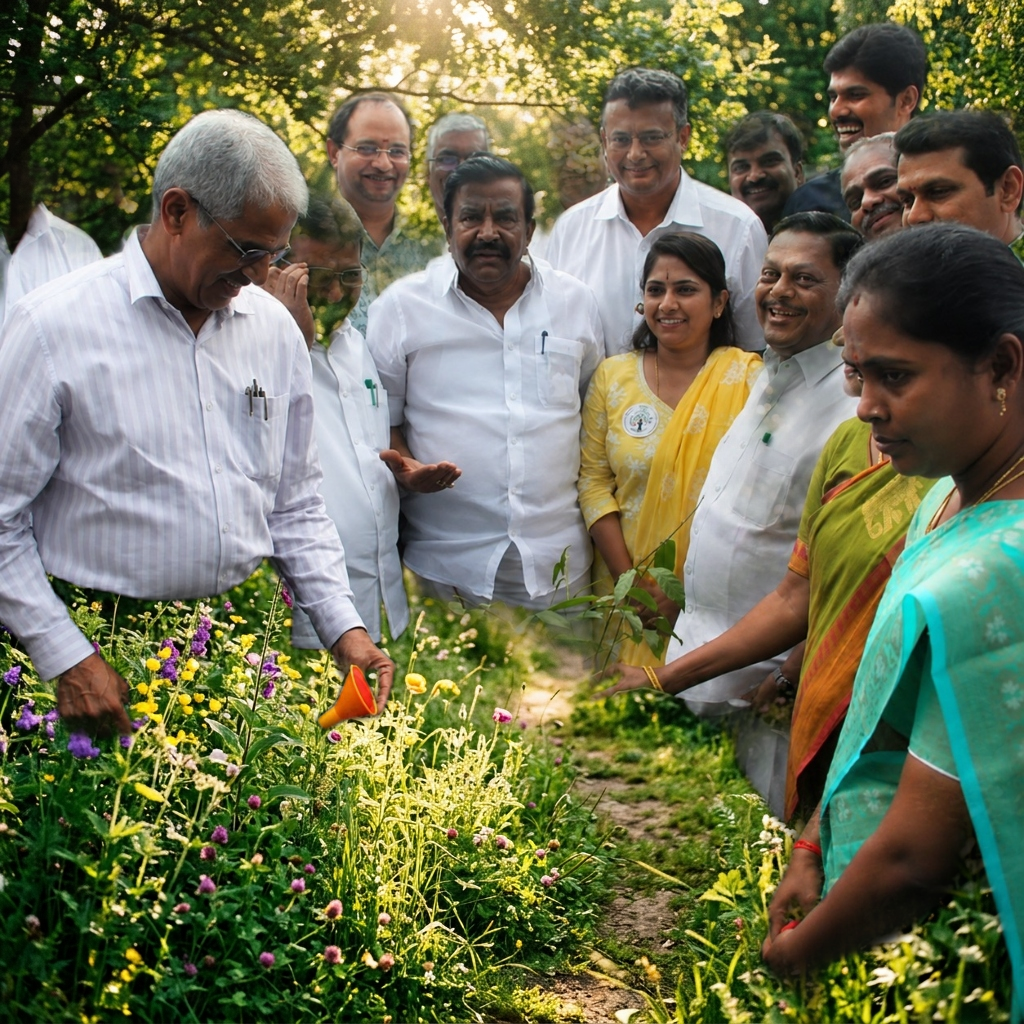
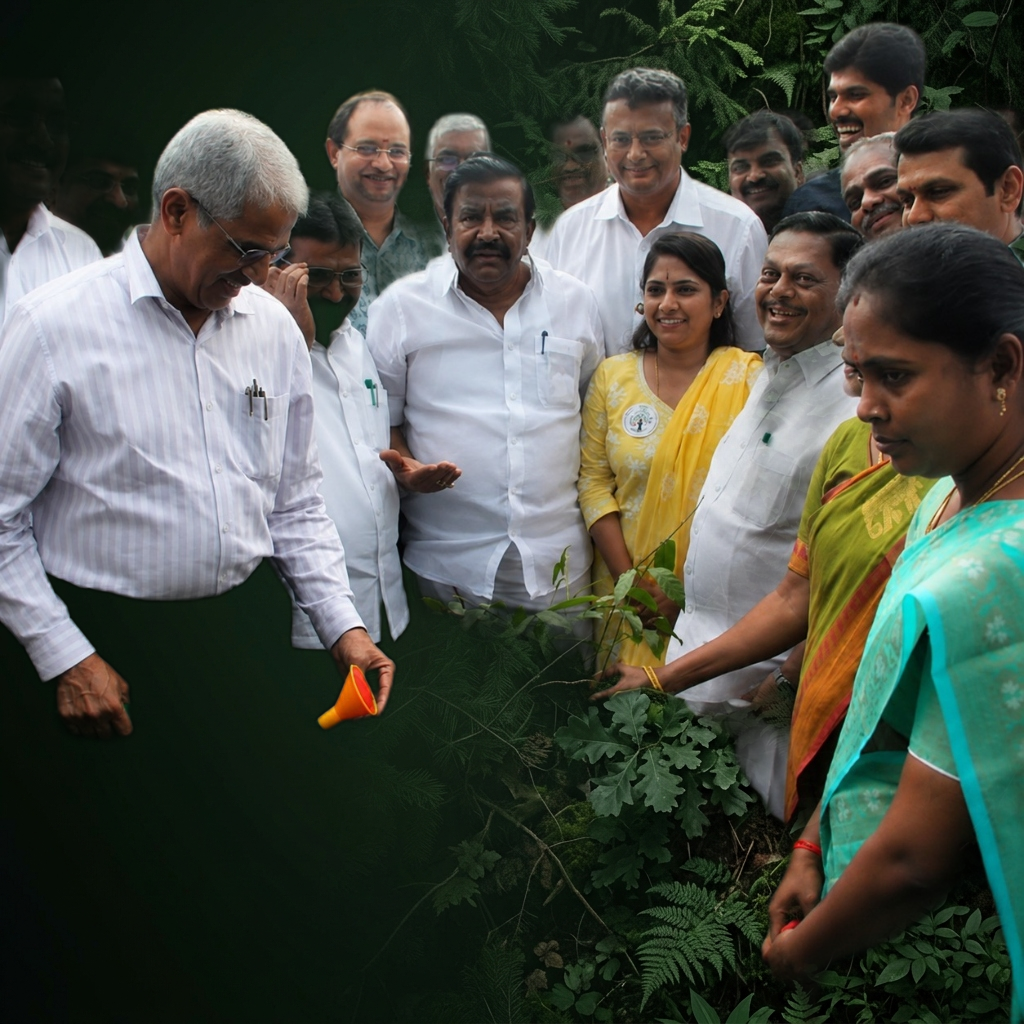
Implement exact mockup design with transparent header, left-aligned hero content, and bottom features list while maintaining original faces

diff --git a/src/pages/Home.jsx b/src/pages/Home.jsx
@@ -1,6 +1,6 @@
 import React, { useEffect, useState } from 'react';
 import { motion } from 'framer-motion';
-import { Leaf, ArrowRight, Heart, Users, Compass } from 'lucide-react';
+import { Leaf, ArrowRight, Heart, Users, Compass, Droplet } from 'lucide-react';
 import { Link } from 'react-router-dom';
 import Button from '../components/common/Button';
 import SectionTitle from '../components/common/SectionTitle';
@@ -45,92 +45,105 @@ const Home = () => {
   return (
     <div className="overflow-hidden font-sans">
       {/* 1. HERO SECTION (100vh Presentation Slide) */}
-      {/* 1. HERO SECTION (100vh Presentation Slide) */}
-      <section className="relative min-h-screen flex items-center justify-center bg-slate-950 text-white overflow-hidden pt-20 pb-16 px-4">
+      <section className="relative min-h-screen flex items-center bg-[#04140a] text-white overflow-hidden pt-32 pb-20 px-4 md:px-8">
         {/* Environmental Canopy Background Image with Dark Soft Gradients */}
         <div className="absolute inset-0 z-0">
           <img 
             src={homeHeroBg} 
             alt="People planting a sapling" 
-            className="w-full h-full object-cover opacity-90 animate-fade-in"
+            className="w-full h-full object-cover opacity-95 object-center lg:object-right animate-fade-in"
           />
-          {/* Softer gradient in the center to keep people's faces extremely bright and clear */}
-          <div className="absolute inset-0 bg-gradient-to-b from-slate-950/70 via-slate-950/25 to-slate-950/90"></div>
-          
-          {/* Ambient Organic Light blobs */}
-          <div className="absolute top-1/4 left-1/4 w-[500px] h-[500px] bg-emerald-500/10 rounded-full blur-3xl pointer-events-none -translate-x-1/2 -translate-y-1/2"></div>
-          <div className="absolute bottom-1/4 right-1/4 w-[600px] h-[600px] bg-emerald-500/5 rounded-full blur-3xl pointer-events-none translate-x-1/2 translate-y-1/2"></div>
+          {/* Dark-green vignette overlay: very dark on the left/bottom, fading into light/transparent on the right */}
+          <div className="absolute inset-0 bg-gradient-to-b from-[#04140a]/90 via-[#04140a]/50 to-[#04140a]/95 lg:bg-gradient-to-r lg:from-[#04140a]/95 lg:via-[#04140a]/65 lg:to-transparent z-10"></div>
         </div>
 
         {/* Hero Content */}
-        <div className="max-w-7xl mx-auto text-center relative z-10 space-y-8 w-full px-4">
+        <div className="max-w-7xl mx-auto relative z-20 space-y-8 w-full text-left flex flex-col items-start px-4 lg:px-0">
+          {/* Leaf Badge */}
           <motion.div
             initial={{ opacity: 0, scale: 0.95 }}
             animate={{ opacity: 1, scale: 1 }}
             transition={{ duration: 0.6 }}
-            className="inline-flex items-center gap-2 px-3 py-1 rounded-full bg-slate-950/40 border border-white/10 text-emerald-400 text-xs font-bold uppercase tracking-widest backdrop-blur-sm shadow-md"
+            className="inline-flex items-center gap-2 px-4 py-1.5 rounded-full bg-white/5 border border-white/10 text-white text-xs font-bold uppercase tracking-widest backdrop-blur-sm shadow-md"
           >
-            <Leaf size={16} className="fill-emerald-400/20 text-emerald-400" />
-            <span>Preserving Ecosystems Since 2021</span>
+            <Leaf size={14} className="fill-emerald-500 text-emerald-500" />
+            <span>Preserving <span className="text-emerald-400">Nature</span>, Enriching <span className="text-emerald-400">Lives</span></span>
           </motion.div>
 
+          {/* Title */}
           <motion.h1
             initial={{ opacity: 0, y: 40 }}
             animate={{ opacity: 1, y: 0 }}
             transition={{ duration: 0.8, delay: 0.15 }}
-            className="font-display font-black text-3xl sm:text-5xl md:text-6xl leading-none tracking-tight uppercase drop-shadow-[0_4px_12px_rgba(0,0,0,0.85)]"
+            className="font-display font-black text-4xl sm:text-5xl md:text-6xl lg:text-[68px] leading-tight tracking-tight uppercase text-white max-w-3xl drop-shadow-md"
           >
-            Protecting Nature, <br />
-            <span className="text-transparent bg-clip-text bg-gradient-to-r from-secondary via-emerald-400 to-accent">
-              Restoring Ecosystems
-            </span>
+            Together, We Can <br />
+            Build a <span className="text-emerald-400">Greener <br className="hidden md:inline" /> Tomorrow</span>
           </motion.h1>
 
+          {/* Paragraph */}
           <motion.p
             initial={{ opacity: 0, y: 30 }}
             animate={{ opacity: 1, y: 0 }}
             transition={{ duration: 0.8, delay: 0.3 }}
-            className="text-slate-100 text-sm sm:text-lg max-w-2xl mx-auto font-medium leading-relaxed drop-shadow-[0_2px_8px_rgba(0,0,0,0.85)]"
+            className="text-slate-300 text-sm sm:text-lg max-w-xl font-medium leading-relaxed drop-shadow-sm"
           >
-            We empower local communities to combat climate change, plant biodiverse forests, and restore clean waterways. Join us in cultivating a sustainable planet.
+            We empower communities through environmental <span className="text-emerald-400 font-bold">conservation</span>, tree plantation, and <span className="text-emerald-400 font-bold">sustainable</span> development for a better tomorrow.
           </motion.p>
 
-          {/* Branding Badge inside Hero */}
-          <motion.div
-            initial={{ opacity: 0 }}
-            animate={{ opacity: 1 }}
-            transition={{ duration: 0.8, delay: 0.45 }}
-            className="flex items-center justify-center gap-4 bg-slate-950/40 border border-white/20 rounded-3xl p-4 max-w-sm mx-auto backdrop-blur-md shadow-2xl"
-          >
-            <div className="flex">
-              <img 
-                src={logoDhi} 
-                alt="DHI Green Foundation Logo" 
-                className="h-10 w-auto object-contain bg-white rounded-xl p-1 shadow-md"
-              />
-            </div>
-            <div className="text-left border-l border-white/15 pl-4">
-              <span className="block text-[9px] uppercase tracking-widest text-emerald-300 font-black font-display">Culture with Agriculture</span>
-              <span className="block text-xs font-display font-bold text-white uppercase mt-0.5">DHI Green Foundation</span>
-            </div>
-          </motion.div>
-
+          {/* Buttons */}
           <motion.div
             initial={{ opacity: 0, y: 30 }}
             animate={{ opacity: 1, y: 0 }}
             transition={{ duration: 0.8, delay: 0.5 }}
-            className="flex flex-wrap justify-center gap-5 pt-4"
+            className="flex flex-wrap gap-5 pt-2"
           >
-            <Link to="/donate">
-              <Button variant="accent" size="lg" className="gap-2 shadow-lg shadow-accent/20 hover:scale-105 transition-transform duration-300">
-                Donate Now <Heart size={18} className="fill-slate-900 text-slate-900" />
+            <Link to="/projects">
+              <Button variant="primary" size="lg" className="bg-[#22c55e] hover:bg-emerald-600 border-transparent text-white rounded-full font-bold px-8 py-3.5 flex items-center gap-2 transition-transform hover:scale-105 duration-300 shadow-lg shadow-emerald-950/20">
+                <Leaf size={18} /> Explore Our Projects
               </Button>
             </Link>
             <Link to="/volunteer">
-              <Button variant="outline" size="lg" className="border-white/25 bg-white/5 text-white hover:bg-white/10 hover:border-white/40 hover:scale-105 transition-transform duration-300">
-                Join as Volunteer
+              <Button variant="outline" size="lg" className="border-white/20 bg-white/5 hover:bg-white/10 text-white rounded-full font-bold px-8 py-3.5 flex items-center gap-2 transition-transform hover:scale-105 duration-300">
+                <Users size={18} /> Join as Volunteer
               </Button>
             </Link>
+          </motion.div>
+
+          {/* Features list row */}
+          <motion.div
+            initial={{ opacity: 0, y: 20 }}
+            animate={{ opacity: 1, y: 0 }}
+            transition={{ duration: 0.8, delay: 0.6 }}
+            className="grid grid-cols-1 sm:grid-cols-3 gap-8 pt-8 mt-4 border-t border-white/15 w-full max-w-4xl"
+          >
+            <div className="flex items-center gap-4">
+              <div className="w-12 h-12 rounded-full bg-emerald-500/10 border border-emerald-500/20 flex items-center justify-center text-emerald-400 shrink-0">
+                <Leaf size={22} className="fill-emerald-500/10" />
+              </div>
+              <div>
+                <h4 className="font-extrabold text-white text-sm font-display tracking-wide">Plant Trees</h4>
+                <p className="text-slate-400 text-xs mt-0.5 leading-relaxed">Create a greener planet</p>
+              </div>
+            </div>
+            <div className="flex items-center gap-4">
+              <div className="w-12 h-12 rounded-full bg-emerald-500/10 border border-emerald-500/20 flex items-center justify-center text-emerald-400 shrink-0">
+                <Droplet size={22} className="fill-emerald-500/10" />
+              </div>
+              <div>
+                <h4 className="font-extrabold text-white text-sm font-display tracking-wide">Save Water</h4>
+                <p className="text-slate-400 text-xs mt-0.5 leading-relaxed">Protect every drop</p>
+              </div>
+            </div>
+            <div className="flex items-center gap-4">
+              <div className="w-12 h-12 rounded-full bg-emerald-500/10 border border-emerald-500/20 flex items-center justify-center text-emerald-400 shrink-0">
+                <Users size={22} className="fill-emerald-500/10" />
+              </div>
+              <div>
+                <h4 className="font-extrabold text-white text-sm font-display tracking-wide">Empower Communities</h4>
+                <p className="text-slate-400 text-xs mt-0.5 leading-relaxed">Together for a better tomorrow</p>
+              </div>
+            </div>
           </motion.div>
         </div>
       </section>

diff --git a/src/components/layout/Navbar.jsx b/src/components/layout/Navbar.jsx
@@ -1,7 +1,7 @@
 import React, { useState, useEffect } from 'react';
 import { NavLink, Link, useLocation } from 'react-router-dom';
 import { motion, AnimatePresence } from 'framer-motion';
-import { Menu, X, Leaf } from 'lucide-react';
+import { Menu, X, Heart } from 'lucide-react';
 import Button from '../common/Button';
 import logoDhi from '../../assets/logo-dhi-official.png';
 
@@ -38,57 +38,72 @@ const Navbar = () => {
     { name: 'Contact', path: '/contact' }
   ];
 
-  const activeStyle = ({ isActive }) => 
-    `text-[15px] font-extrabold tracking-wide transition-colors font-display ${
-      isActive ? 'text-primary' : 'text-slate-800 hover:text-primary'
-    }`;
-
   const mobileActiveStyle = ({ isActive }) => 
     `block text-base font-bold py-2 font-display ${
-      isActive ? 'text-primary border-l-4 border-primary pl-3' : 'text-slate-700 hover:text-primary pl-4'
+      isActive ? 'text-emerald-400 border-l-4 border-emerald-400 pl-3' : 'text-white/80 hover:text-white pl-4'
     }`;
 
   return (
-    <header className="fixed top-0 left-0 w-full z-45 px-4 md:px-8 py-4 transition-all duration-300">
-      <div 
-        className={`max-w-7xl mx-auto rounded-2xl md:rounded-full px-6 py-3 flex items-center justify-between transition-all duration-300 ${
-          isScrolled 
-            ? 'bg-white/95 backdrop-blur-md shadow-lg border border-slate-100/80' 
-            : 'bg-white/90 backdrop-blur-lg shadow-md border border-white/20'
-        }`}
-      >
+    <header 
+      className={`fixed top-0 left-0 w-full z-50 transition-all duration-300 ${
+        isScrolled 
+          ? 'bg-[#04140a]/90 backdrop-blur-md border-b border-white/5 py-3 shadow-lg' 
+          : 'bg-transparent py-5'
+      }`}
+    >
+      <div className="max-w-7xl mx-auto px-6 md:px-8 flex items-center justify-between">
         {/* Branding Logo */}
         <Link to="/" className="flex items-center select-none group">
           <img 
             src={logoDhi} 
             alt="DHI Green Foundation Logo" 
-            className="h-14 md:h-[72px] w-auto object-contain rounded-xl bg-white border border-emerald-100/50 p-1 group-hover:scale-102 transition-transform shadow-sm"
+            className="h-12 md:h-14 w-auto object-contain rounded-xl bg-white p-1 group-hover:scale-102 transition-transform shadow-md"
           />
         </Link>
 
         {/* Desktop Navigation Link list */}
-        <nav className="hidden lg:flex items-center gap-6">
+        <nav className="hidden lg:flex items-center gap-8">
           {navLinks.map((link) => (
-            <NavLink key={link.name} to={link.path} className={activeStyle}>
-              {link.name}
+            <NavLink 
+              key={link.name} 
+              to={link.path} 
+              className={({ isActive }) => 
+                `relative text-[15px] font-bold tracking-wide transition-colors font-display py-1.5 ${
+                  isActive ? 'text-emerald-400' : 'text-white/80 hover:text-white'
+                }`
+              }
+            >
+              {({ isActive }) => (
+                <>
+                  {link.name}
+                  {isActive && (
+                    <motion.div 
+                      layoutId="activeIndicator"
+                      className="absolute bottom-0 left-0 right-0 h-0.5 bg-emerald-400 rounded-full"
+                    />
+                  )}
+                </>
+              )}
             </NavLink>
           ))}
         </nav>
 
-        {/* CTA Actions & Emblem */}
-        <div className="hidden lg:flex items-center gap-4">
-          <Link to="/volunteer">
-            <Button variant="ghost" size="sm" className="text-slate-700 hover:text-primary hover:bg-slate-100/50">Volunteer</Button>
+        {/* CTA Actions */}
+        <div className="hidden lg:flex items-center gap-6">
+          <Link to="/volunteer" className="text-[15px] font-bold text-white/80 hover:text-white transition-colors font-display">
+            Volunteer
           </Link>
           <Link to="/donate">
-            <Button variant="primary" size="sm">Donate Now</Button>
+            <Button variant="primary" size="sm" className="bg-[#22c55e] hover:bg-emerald-600 text-white border-transparent rounded-full px-5 py-2 flex items-center gap-1.5 font-bold shadow-md hover:scale-105 transition-transform">
+              <Heart size={15} className="fill-white text-white" /> Donate Now
+            </Button>
           </Link>
         </div>
 
         {/* Mobile Toggle Trigger */}
         <button 
           onClick={() => setIsOpen(!isOpen)}
-          className="lg:hidden text-slate-700 hover:text-primary p-2 focus:outline-none"
+          className="lg:hidden text-white hover:text-emerald-400 p-2 focus:outline-none"
           aria-label="Toggle menu"
         >
           {isOpen ? <X size={24} /> : <Menu size={24} />}
@@ -103,7 +118,7 @@ const Navbar = () => {
             animate={{ opacity: 1, height: 'auto' }}
             exit={{ opacity: 0, height: 0 }}
             transition={{ duration: 0.2 }}
-            className="lg:hidden bg-white/95 backdrop-blur-lg border border-slate-100 shadow-lg rounded-2xl mt-2 overflow-hidden"
+            className="lg:hidden bg-[#04140a]/95 backdrop-blur-lg border border-white/5 shadow-2xl rounded-2xl mx-4 mt-2 overflow-hidden"
           >
             <div className="px-6 py-5 space-y-3">
               {navLinks.map((link) => (
@@ -112,12 +127,12 @@ const Navbar = () => {
                 </NavLink>
               ))}
 
-              <div className="border-t border-slate-100 pt-4 flex flex-col gap-3 mt-4">
+              <div className="border-t border-white/10 pt-4 flex flex-col gap-3 mt-4">
                 <Link to="/volunteer" className="w-full">
-                  <Button variant="outline" size="md" className="w-full justify-center">Join as Volunteer</Button>
+                  <Button variant="outline" size="md" className="w-full justify-center border-white/20 text-white bg-white/5 rounded-full">Join as Volunteer</Button>
                 </Link>
                 <Link to="/donate" className="w-full">
-                  <Button variant="primary" size="md" className="w-full justify-center">Donate Now</Button>
+                  <Button variant="primary" size="md" className="w-full justify-center bg-[#22c55e] text-white rounded-full">Donate Now</Button>
                 </Link>
               </div>
             </div>